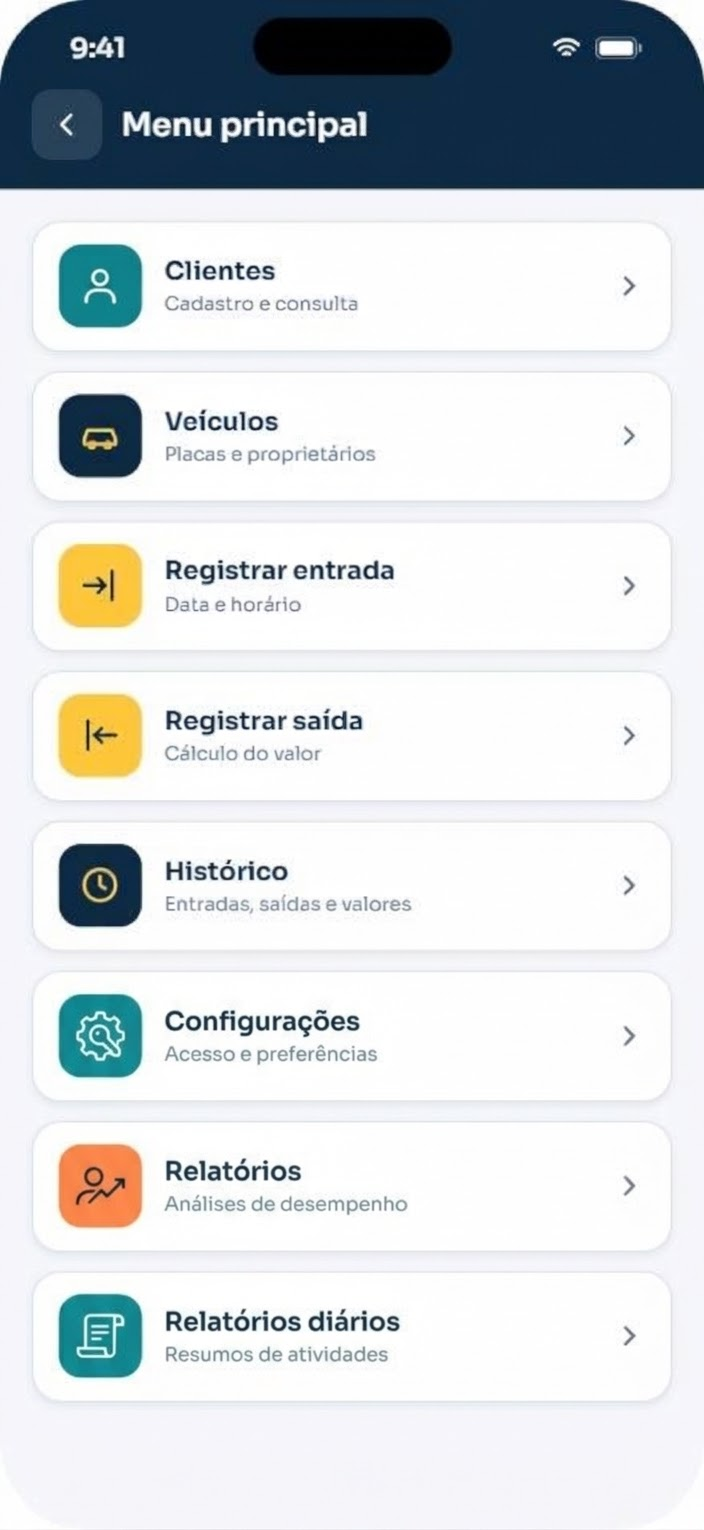
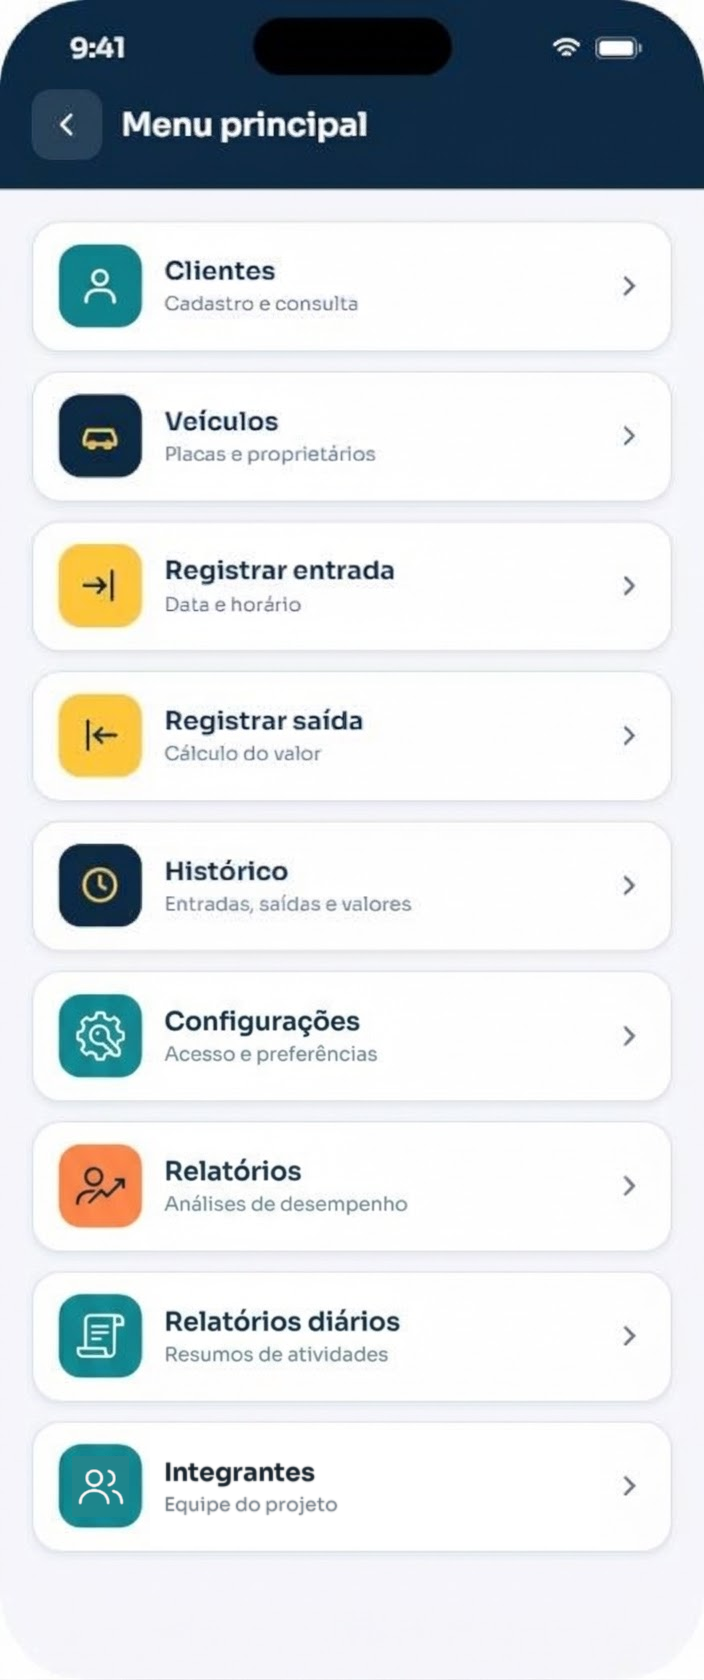
Adiciona tela de integrantes

diff --git a/README.md b/README.md
@@ -32,7 +32,7 @@ Empresas de estacionamento privativo que não possuem capital suficiente para in
 - **Gerenciamento de Veículos:** Permite cadastrar e consultar os veículos vinculados aos clientes.
 - **Registro de Entrada e Saída:** Controla a movimentação dos veículos no estacionamento, registrando horários de entrada e saída.
 - **Controle de Pagamentos:** Realiza o registro e a consulta dos valores referentes aos serviços de estacionamento.
-- **Histórico de Movimentações:** Disponibiliza a consulta dos registros de estacionamento realizados, permitindo o acompanhamento das movimentações anteriores.
+- **Integrantes:** Lista o nome de todos integrantes da equipe, responsáveis pela criação do applicativo.
 
 ## 5. Modelo Entidade-Relacionamento (ER) do Banco de Dados Local
 
